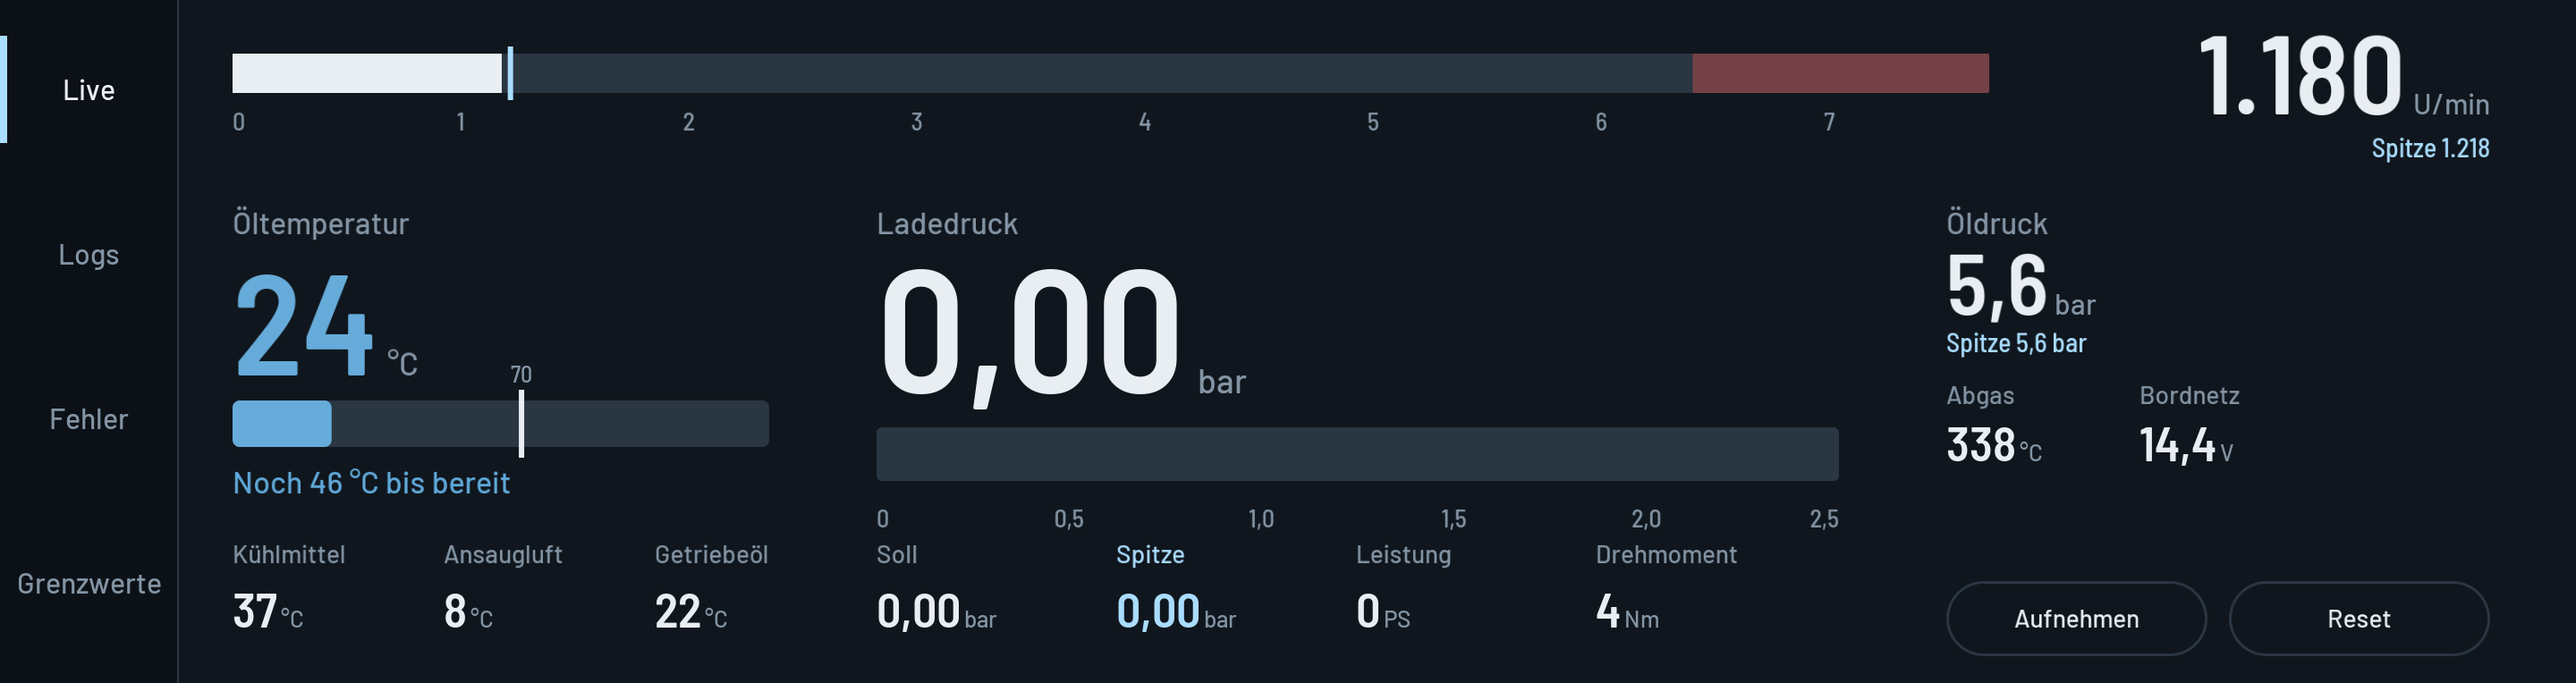
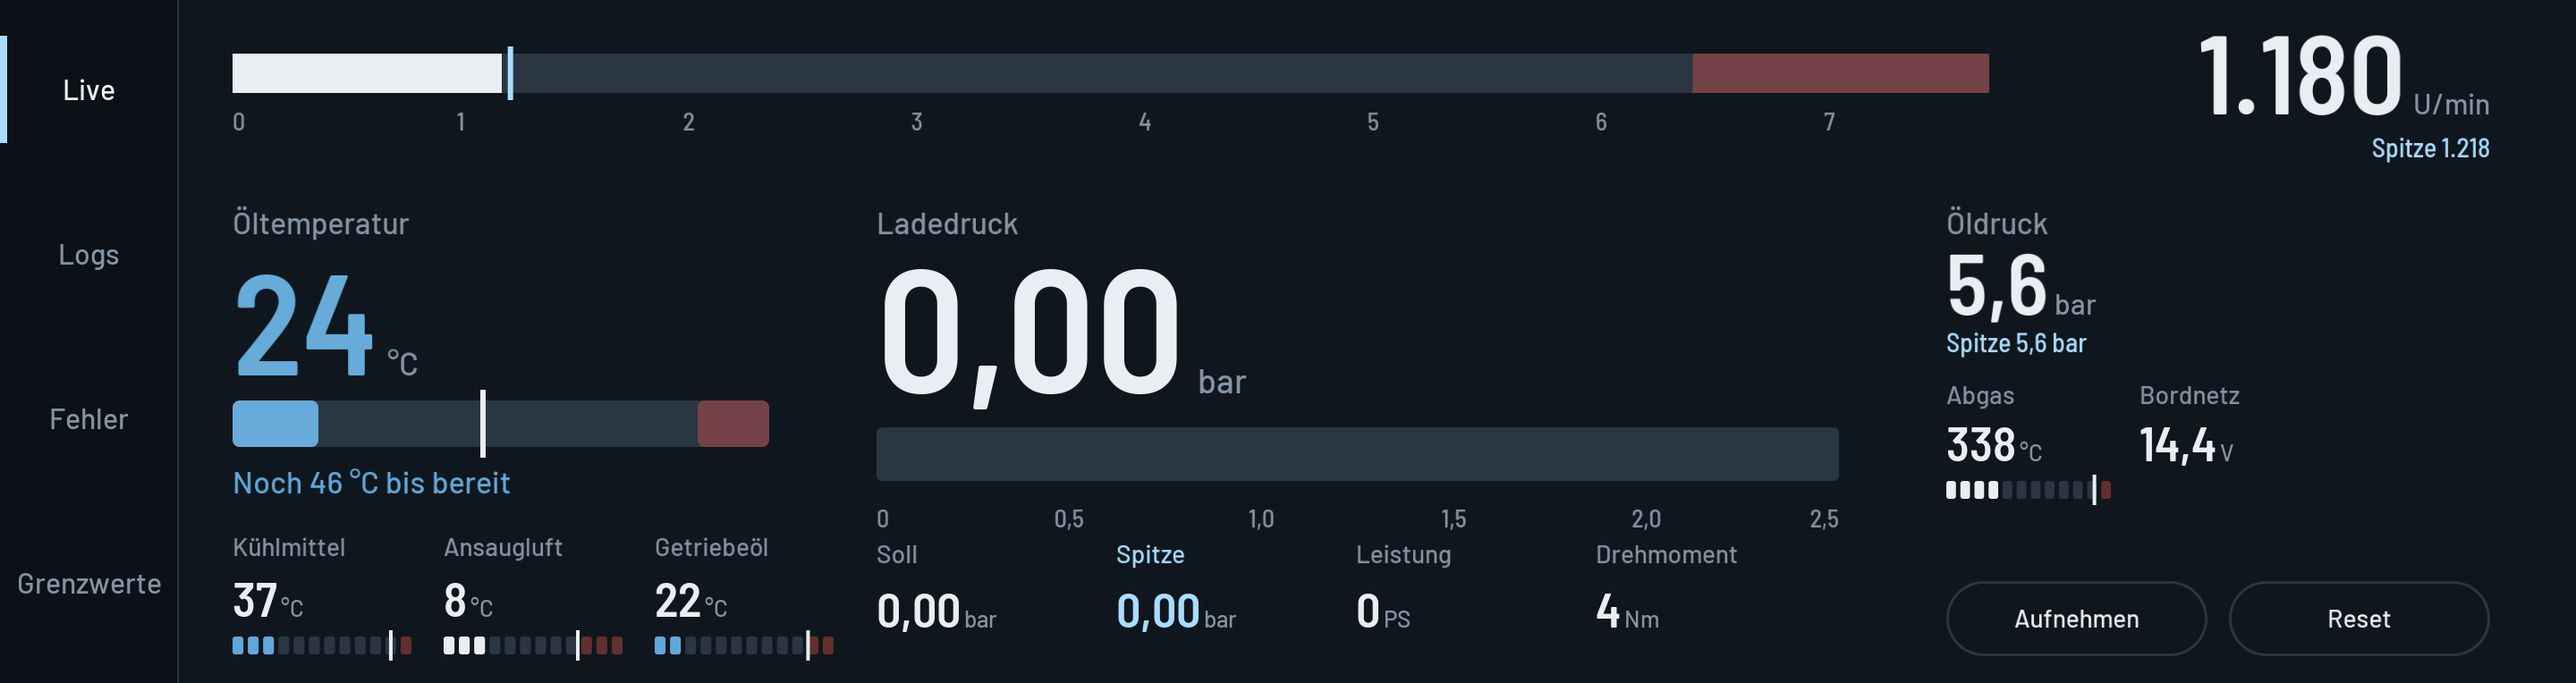
0.13.0: heat strips under the temperatures (blue cold, white warm, red at the limit, a red zone above it), the oil band's red zone

diff --git a/apps/km_motordaten/src/dash.js b/apps/km_motordaten/src/dash.js
@@ -34,7 +34,7 @@ const PAD = 96;
 const RAIL = 200;             // the tab rail on the left
 const X0 = RAIL + 60;          // where page content starts
 const RPM_MAX = 7700;
-const OIL_MAX = 130;
+const OIL_MAX = 150;
 const OIL_PRESS_RPM = 1500;    // the oil pressure warning counts above this engine speed
 const COL = { left: { x: X0, w: 600 }, mid: { x: 980, w: 1076 }, right: { x: 2176, w: 608 } };
 
@@ -264,6 +264,39 @@ function rpmBand(rec, v, cfg) {
     }
 }
 
+/*
+ * A temperature as a strip of segments under its value, in the screen's heat language: lit segments blue
+ * while cold, white once warm, all red at its limit; the stretch from the limit up is a dim red zone, as on
+ * the engine speed's band, with a tick at the limit. r: { lo, hi, warm, limit } (limit null: none).
+ */
+const STRIP_SEGMENTS = 12;
+function heatStrip(rec, x, y, w, h, value, r) {
+    const gap = 5;
+    const seg = (w - gap * (STRIP_SEGMENTS - 1)) / STRIP_SEGMENTS;
+    const at = (t) => (t - r.lo) / (r.hi - r.lo);
+    const lit = isNum(value) ? Math.round(clamp(at(value), 0, 1) * STRIP_SEGMENTS) : 0;
+    const over = isNum(value) && r.limit !== null && value >= r.limit;
+    const color = !isNum(value) ? C.dim : over ? C.limit : isNum(r.warm) && value < r.warm ? C.cold : C.text;
+    for (let i = 0; i < STRIP_SEGMENTS; i++) {
+        const sx = x + i * (seg + gap);
+        const zone = r.limit !== null && (i + 0.5) / STRIP_SEGMENTS >= at(r.limit);
+        rec.roundRect(sx, y, seg, h, 3, i < Math.max(lit, isNum(value) && value > r.lo ? 1 : 0) ? color : zone ? C.redzone : C.line);
+    }
+    if (r.limit !== null) {
+        const lx = x + w * clamp(at(r.limit), 0, 1);
+        rec.fillRect(lx - 2, y - 7, 4, h + 14, over ? C.limit : C.text);
+    }
+    return over;
+}
+
+/* The temperatures' strips: their scales and where they turn warm. */
+const HEAT = {
+    coolant: { lo: 0, hi: 130, warm: 70 },
+    intake: { lo: -10, hi: 70, warm: null, limit: 50 },
+    gearbox: { lo: 0, hi: 140, warm: 60 },
+    exhaust: { lo: 0, hi: 1000, warm: 300 }
+};
+
 function readiness(rec, v, cfg) {
     const { x, w } = COL.left;
     const readyAt = cfg.oilReady;
@@ -278,21 +311,27 @@ function readiness(rec, v, cfg) {
     const by = 448;
     const bh = 52;
     rec.roundRect(x, by, w, bh, 8, C.line);
+    // from the warning limit up: the red zone, as on the engine speed's band
+    const zx = x + w * clamp(cfg.oilMax, 0, OIL_MAX) / OIL_MAX;
+    if (zx < x + w) {
+        rec.roundRect(zx, by, x + w - zx, bh, 8, C.redzone);
+    }
     if (isNum(oil) && oil > 0) {
         rec.roundRect(x, by, Math.max(bh, w * clamp(oil, 0, OIL_MAX) / OIL_MAX), bh, 8, color);
     }
     const mx = x + w * readyAt / OIL_MAX;
     rec.fillRect(mx - 3, by - 12, 6, bh + 24, C.text);
-    rec.text(String(readyAt), mx, by - 20, 26, C.dim, { font: 'scale', align: 'center' });
     const note = !isNum(oil) ? '' : hot ? 'Öl zu heiß' : ready ? 'Bereit für Volllast' : `Noch ${Math.ceil(readyAt - oil)} °C bis bereit`;
     rec.text(note, x, 552, 34, hot ? C.limit : ready ? C.text : C.cold, { font: 'label' });
 
-    const cells = [['Kühlmittel', v.coolant, cfg.coolantMax], ['Ansaugluft', v.intake, null], ['Getriebeöl', v.gearbox, cfg.gearboxMax]];
+    const cells = [['Kühlmittel', v.coolant, Object.assign({ limit: cfg.coolantMax }, HEAT.coolant)],
+        ['Ansaugluft', v.intake, HEAT.intake], ['Getriebeöl', v.gearbox, Object.assign({ limit: cfg.gearboxMax }, HEAT.gearbox)]];
     cells.forEach((c, i) => {
         const cx = x + i * 236;
-        const hot = isNum(c[1]) && c[2] !== null && c[1] >= c[2];
-        rec.text(c[0], cx, 630, 28, C.dim, { font: 'label' });
-        valueUnit(rec, isNum(c[1]) ? String(Math.round(c[1])) : '–', '°C', cx, 702, 54, hot ? C.limit : C.text, 26, 'left');
+        const hot = isNum(c[1]) && c[2].limit !== null && c[1] >= c[2].limit;
+        rec.text(c[0], cx, 622, 28, hot ? C.limit : C.dim, { font: 'label' });
+        valueUnit(rec, isNum(c[1]) ? String(Math.round(c[1])) : '–', '°C', cx, 690, 54, hot ? C.limit : C.text, 26, 'left');
+        heatStrip(rec, cx, 712, 200, 20, c[1], c[2]);
     });
 }
 
@@ -354,9 +393,10 @@ function health(rec, v, cfg, ui, extra) {
     ];
     cells.forEach((c, i) => {
         const cx = x + i * 216;
-        rec.text(c[0], cx, 452, 28, C.dim, { font: 'label' });
+        rec.text(c[0], cx, 452, 28, c[3] ? C.limit : C.dim, { font: 'label' });
         valueUnit(rec, c[1], c[2], cx, 516, 54, c[3] ? C.limit : C.text, 26, 'left');
     });
+    heatStrip(rec, x, 538, 184, 20, v.exhaust, Object.assign({ limit: cfg.exhaustMax }, HEAT.exhaust));
     mainTargets(extra).forEach((t) => button(rec, t, ui, { size: 28 }));
 }
 
